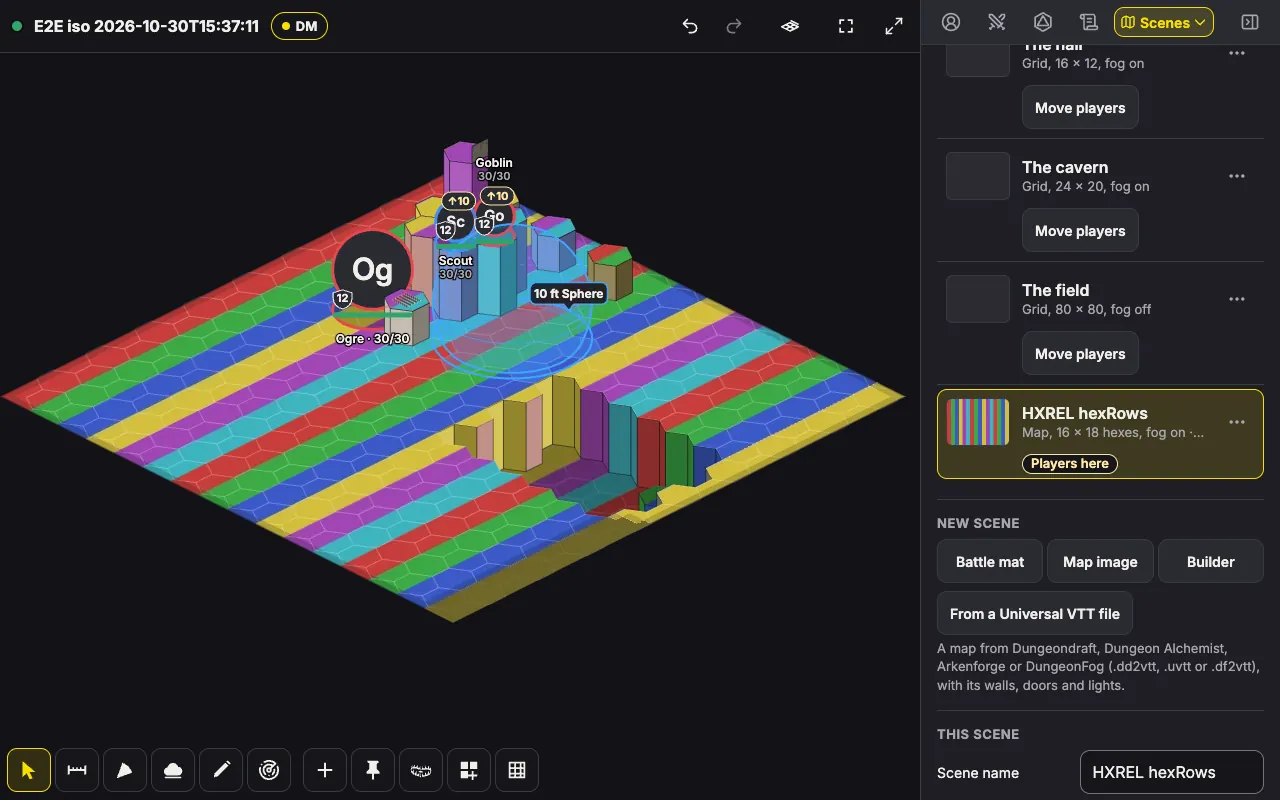
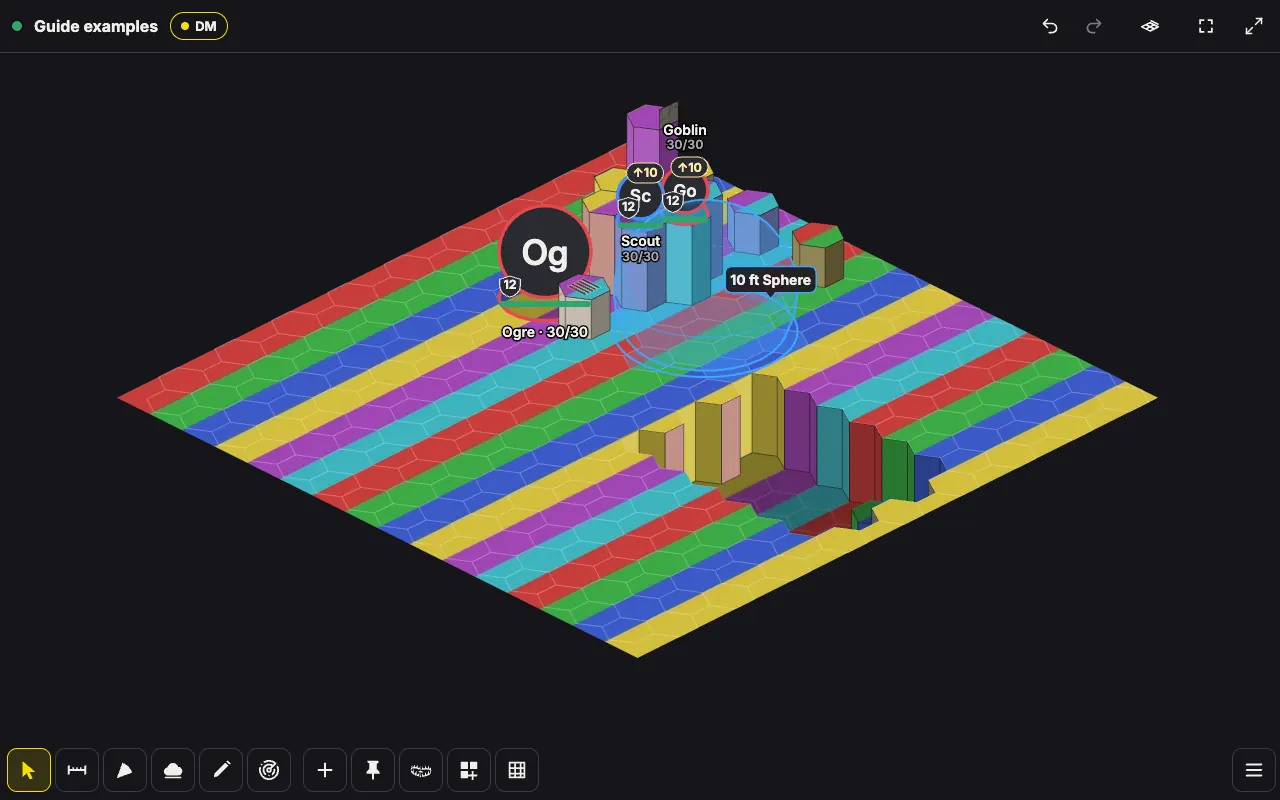
docs(guide): retake the hex relief picture in the guide examples room

diff --git a/scripts/guide-hex-relief.ts b/scripts/guide-hex-relief.ts
@@ -1,0 +1,153 @@
+/**
+ * The DM guide's picture of raised hexes in the isometric view
+ * (docs/dm-guide.md, "Hex scenes", docs/design-v1-iso-hex-relief.md),
+ * taken from the real server on the production build, as guide-iso.ts
+ * takes the isometric view's, in a "Guide examples" room.
+ *
+ * The scene, "Hex terrace", is hex rows over a map of colored stripes drawn
+ * here in code: a terrace of 10 ft hexes round a 20 ft one with a wall on
+ * its east side, a stair up to the terrace, a hollow of hexes 10 ft down
+ * with one at 5 ft down, a scout and a goblin on the terrace, an ogre
+ * across its ledge and a 10 ft sphere at the ledge.
+ *
+ * It needs `pnpm build` first and a Postgres in DATABASE_URL. It makes a
+ * room, writes docs/dm-guide/hex-relief.webp at 1280 x 800, as the guide's
+ * other pictures are, and deletes the room:
+ *
+ *   DATABASE_URL=postgres://... GUIDE_PORT=3197 node scripts/guide-hex-relief.ts
+ */
+import assert from "node:assert/strict";
+import { randomUUID } from "node:crypto";
+import { mkdtempSync, rmSync } from "node:fs";
+import { tmpdir } from "node:os";
+import path from "node:path";
+import { chromium, type Page } from "playwright-core";
+import sharp from "sharp";
+import { placedOnHex } from "../shared/rules/footprint.ts";
+import { cornerAt, hexCenter, hexCorners, hexNeighbors, type Hex, type HexGrid } from "../shared/rules/hex.ts";
+import { OpSocket, ROOT, SocketWatch, startServer, waitFor } from "../e2e/harness.ts";
+
+const PORT = Number(process.env.GUIDE_PORT ?? 3197);
+const DATABASE_URL = process.env.DATABASE_URL ?? "postgres://raccoon:raccoon@localhost:5434/raccoon";
+const OUT = path.join(ROOT, "docs", "dm-guide");
+const WINDOW = { width: 1280, height: 800 };
+const BOUNDS = { w: 16, h: 16 };
+const G: HexGrid = { shape: "hex", orient: "rows" };
+
+/** The map's stripes, one color a cell wide each, so a sunken floor's own pixels read at a glance. */
+const STRIPES: readonly [number, number, number][] = [
+  [200, 60, 60],
+  [60, 170, 70],
+  [60, 90, 200],
+  [210, 190, 60],
+  [160, 70, 180],
+  [60, 180, 190],
+];
+
+function actor() {
+  return { hp: { cur: 30, max: 30, temp: 0 }, life: "alive", ac: 12, speeds: { walk: 30 }, initBonus: 0, passivePerception: 10, senses: "", effects: [], deathSaves: { ok: 0, fail: 0 }, notes: "", dmNotes: "" };
+}
+
+/** The page as the guide shows it, at the quality its other pictures use. */
+async function picture(page: Page, name: string): Promise<void> {
+  // The map's camera and the board settle after a change.
+  await page.waitForTimeout(1200);
+  const png = await page.screenshot();
+  const info = await sharp(png).webp({ quality: 78, effort: 6 }).toFile(path.join(OUT, `${name}.webp`));
+  console.log(`${name}.webp ${info.width} x ${info.height}, ${Math.round(info.size / 1024)} KB`);
+}
+
+const work = mkdtempSync(path.join(tmpdir(), "raccoon-guide-hex-"));
+const server = await startServer({ port: PORT, assetDir: path.join(work, "assets"), databaseUrl: DATABASE_URL });
+const browser = await chromium.launch({ channel: "chrome", headless: true });
+const roomName = "Guide examples";
+let roomId = "";
+let ops: OpSocket | null = null;
+const dmContext = await browser.newContext({ viewport: WINDOW });
+try {
+  const origin = server.origin;
+  const dm = await dmContext.newPage();
+  const dmSocket = new SocketWatch("dm");
+  await dmSocket.attach(dmContext, dm);
+
+  await dm.goto(`${origin}/`);
+  await dm.getByLabel("Room name").fill(roomName);
+  await dm.getByLabel("Your name").fill("Dana the DM");
+  await dm.getByRole("button", { name: "Create room" }).click();
+  await dm.getByRole("heading", { name: "Save your DM link" }).waitFor();
+  const link = (await dm.locator("code").first().textContent()) ?? "";
+  roomId = /\/r\/([0-9A-Z]{4}-[0-9A-Z]{4})#dm=/.exec(link)![1]!.replace("-", "");
+  await dm.getByLabel("I saved my DM link").check();
+  await dm.getByRole("button", { name: "Continue to the room" }).click();
+  await waitFor("the DM's snapshot", () => dmSocket.state);
+  const sceneId = dmSocket.state!.meta.playerSceneId!;
+  const dmId = dmSocket.you!.memberId;
+  const cookie = (await dmContext.cookies(origin)).map((c) => `${c.name}=${c.value}`).join("; ");
+  ops = await OpSocket.open({ origin, roomId, cookie });
+
+  // The stripes, 25 px a cell.
+  const cellPx = 25;
+  const width = BOUNDS.w * cellPx;
+  const height = BOUNDS.h * cellPx;
+  const raw = Buffer.alloc(width * height * 3);
+  for (let y = 0; y < height; y++) for (let x = 0; x < width; x++) raw.set(STRIPES[Math.floor(x / cellPx) % 6]!, (y * width + x) * 3);
+  const png = await sharp(raw, { raw: { width, height, channels: 3 } }).png().toBuffer();
+  const res = await dmContext.request.put(`${origin}/api/rooms/${roomId}/assets?kind=map`, { headers: { Origin: origin, "content-type": "image/png" }, data: png });
+  assert.ok(res.ok(), `the upload answered ${res.status()}`);
+  const asset = (await res.json()) as { id: string; width: number; height: number };
+
+  await ops.send({ t: "scene.update", sceneId, patch: { name: "Hex terrace", bounds: BOUNDS, fogEnabled: false, gridShape: "hexRows", defaultView: { x: 8, y: 8, zoom: 46 } } });
+  await ops.send({ t: "scene.setMap", sceneId, map: { assetId: asset.id, widthPx: asset.width, heightPx: asset.height, cellPx, originPx: { x: 0, y: 0 } } });
+  const key = (h: Hex) => `${h.col},${h.row}`;
+  const hex = (col: number, row: number): Hex => ({ col, row });
+  await ops.send({ t: "build.height", sceneId, cells: hexNeighbors(G, hex(4, 4)).map(key), height: 10 });
+  await ops.send({ t: "build.height", sceneId, cells: [key(hex(4, 4))], height: 20 });
+  await ops.send({ t: "build.height", sceneId, cells: [2, 4, 6].map((c) => key(hex(c, 1))), height: 5 });
+  await ops.send({ t: "build.height", sceneId, cells: [key(hex(4, 7))], height: 5 });
+  await ops.send({ t: "build.stairs", sceneId, cells: [key(hex(4, 7))], up: "a" });
+  const hollow: string[] = [];
+  for (let row = 6; row <= 10; row++) for (let col = 9; col <= 14; col++) hollow.push(key(hex(col, row)));
+  await ops.send({ t: "build.height", sceneId, cells: hollow, height: -10 });
+  await ops.send({ t: "build.height", sceneId, cells: [key(hex(13, 7))], height: -5 });
+  const corners = hexCorners(G, hex(4, 4)).map((c) => cornerAt(G, c));
+  await ops.send({ t: "build.walls", sceneId, put: [{ id: "guidehexwal1", a: [corners[1]!.x, corners[1]!.y], b: [corners[2]!.x, corners[2]!.y], f: { kind: "wall" } }] });
+
+  const token = (name: string, at: Hex, extra: Record<string, unknown>) => {
+    const size = (extra.size as "medium" | "large" | undefined) ?? "medium";
+    return { t: "token.create", token: { id: randomUUID(), sceneId, kind: "monster", name, size, ...placedOnHex(G, { size, x: 0, y: 0 }, at), visibility: "all", actor: { inline: actor() }, ...extra } };
+  };
+  await ops.send(token("Goblin", hex(5, 4), { disposition: "hostile", elevation: 10 }));
+  // The scout's perch is the goblin's terrace neighbor nearest the viewer, as the e2e case climbs it (e2e/iso.e2e.ts).
+  const terrace = new Set(hexNeighbors(G, hex(4, 4)).map(key));
+  const perch = hexNeighbors(G, hex(5, 4))
+    .filter((h) => terrace.has(key(h)))
+    .sort((a, b) => hexCenter(G, b).x + hexCenter(G, b).y - (hexCenter(G, a).x + hexCenter(G, a).y))[0]!;
+  await ops.send(token("Scout", perch, { kind: "npc", disposition: "ally", elevation: 10 }));
+  await ops.send(token("Ogre", hex(3, 6), { disposition: "hostile", size: "large", elevation: 0 }));
+  await ops.send({ t: "template.create", template: { id: randomUUID(), sceneId, shape: "sphere", size: 10, origin: { ...hexCenter(G, hex(6, 5)), z: 5 }, yaw: 0, includeOrigin: true, color: "#3fa7ff", ownerId: dmId, visibility: "all" } });
+  await waitFor("the three tokens", () => (Object.keys(dmSocket.state?.tokens ?? {}).length === 3 ? true : null));
+
+  // The scene's starting view, then Isometric picked from the View menu, as a DM would.
+  await dm.reload();
+  await dm.locator(".konvajs-content").first().waitFor();
+  // The side panel hidden, so the terrain has the window.
+  await dm.getByRole("button", { name: "Hide panels" }).click();
+  const view = dm.getByRole("button", { name: /^View: / });
+  await view.click();
+  const menu = dm.getByRole("dialog", { name: "View" });
+  await menu.waitFor();
+  await menu.getByRole("radio", { name: "Isometric", exact: true }).check();
+  await waitFor("Isometric", async () => ((await view.getAttribute("aria-label")) === "View: Isometric" ? true : null));
+  await dm.keyboard.press("Escape");
+  await menu.waitFor({ state: "detached" });
+  // Escape hands focus back to the View button, whose tooltip would show in the picture.
+  await dm.evaluate(() => (globalThis as unknown as { document: { activeElement: { blur?(): void } | null } }).document.activeElement?.blur?.());
+  await dm.mouse.move(0, WINDOW.height / 2);
+  await picture(dm, "hex-relief");
+} finally {
+  ops?.close();
+  if (roomId) await dmContext.request.delete(`${server.origin}/api/rooms/${roomId}`, { headers: { Origin: server.origin }, data: { name: roomName } }).catch(() => undefined);
+  await browser.close();
+  await server.stop();
+  rmSync(work, { recursive: true, force: true });
+}
